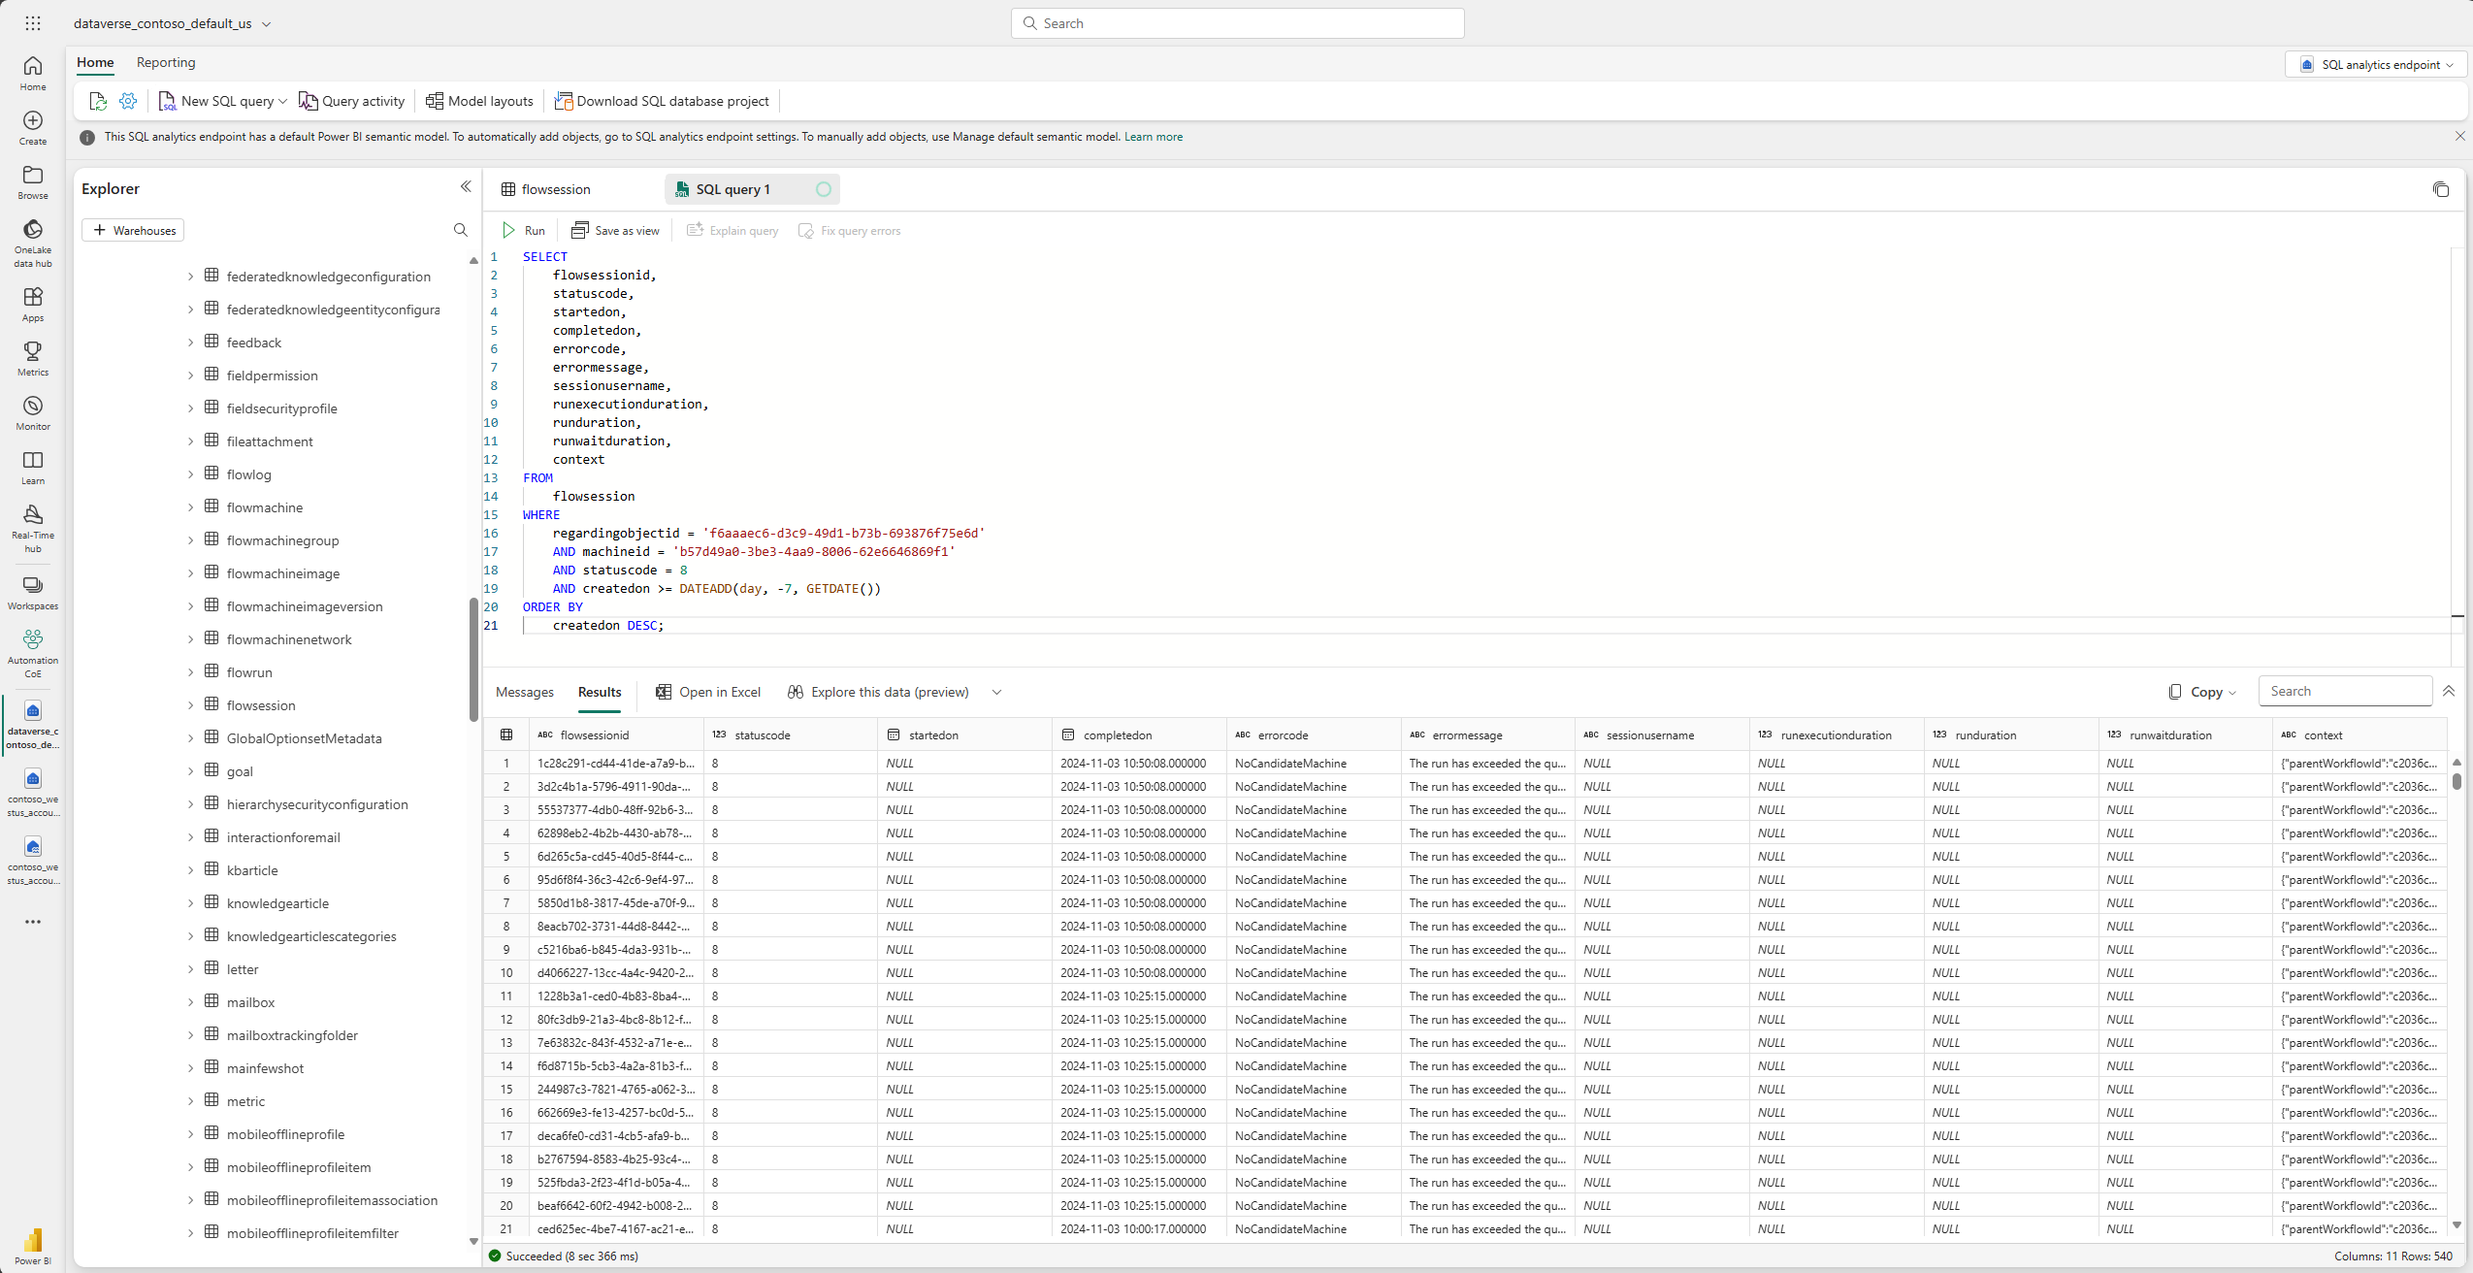
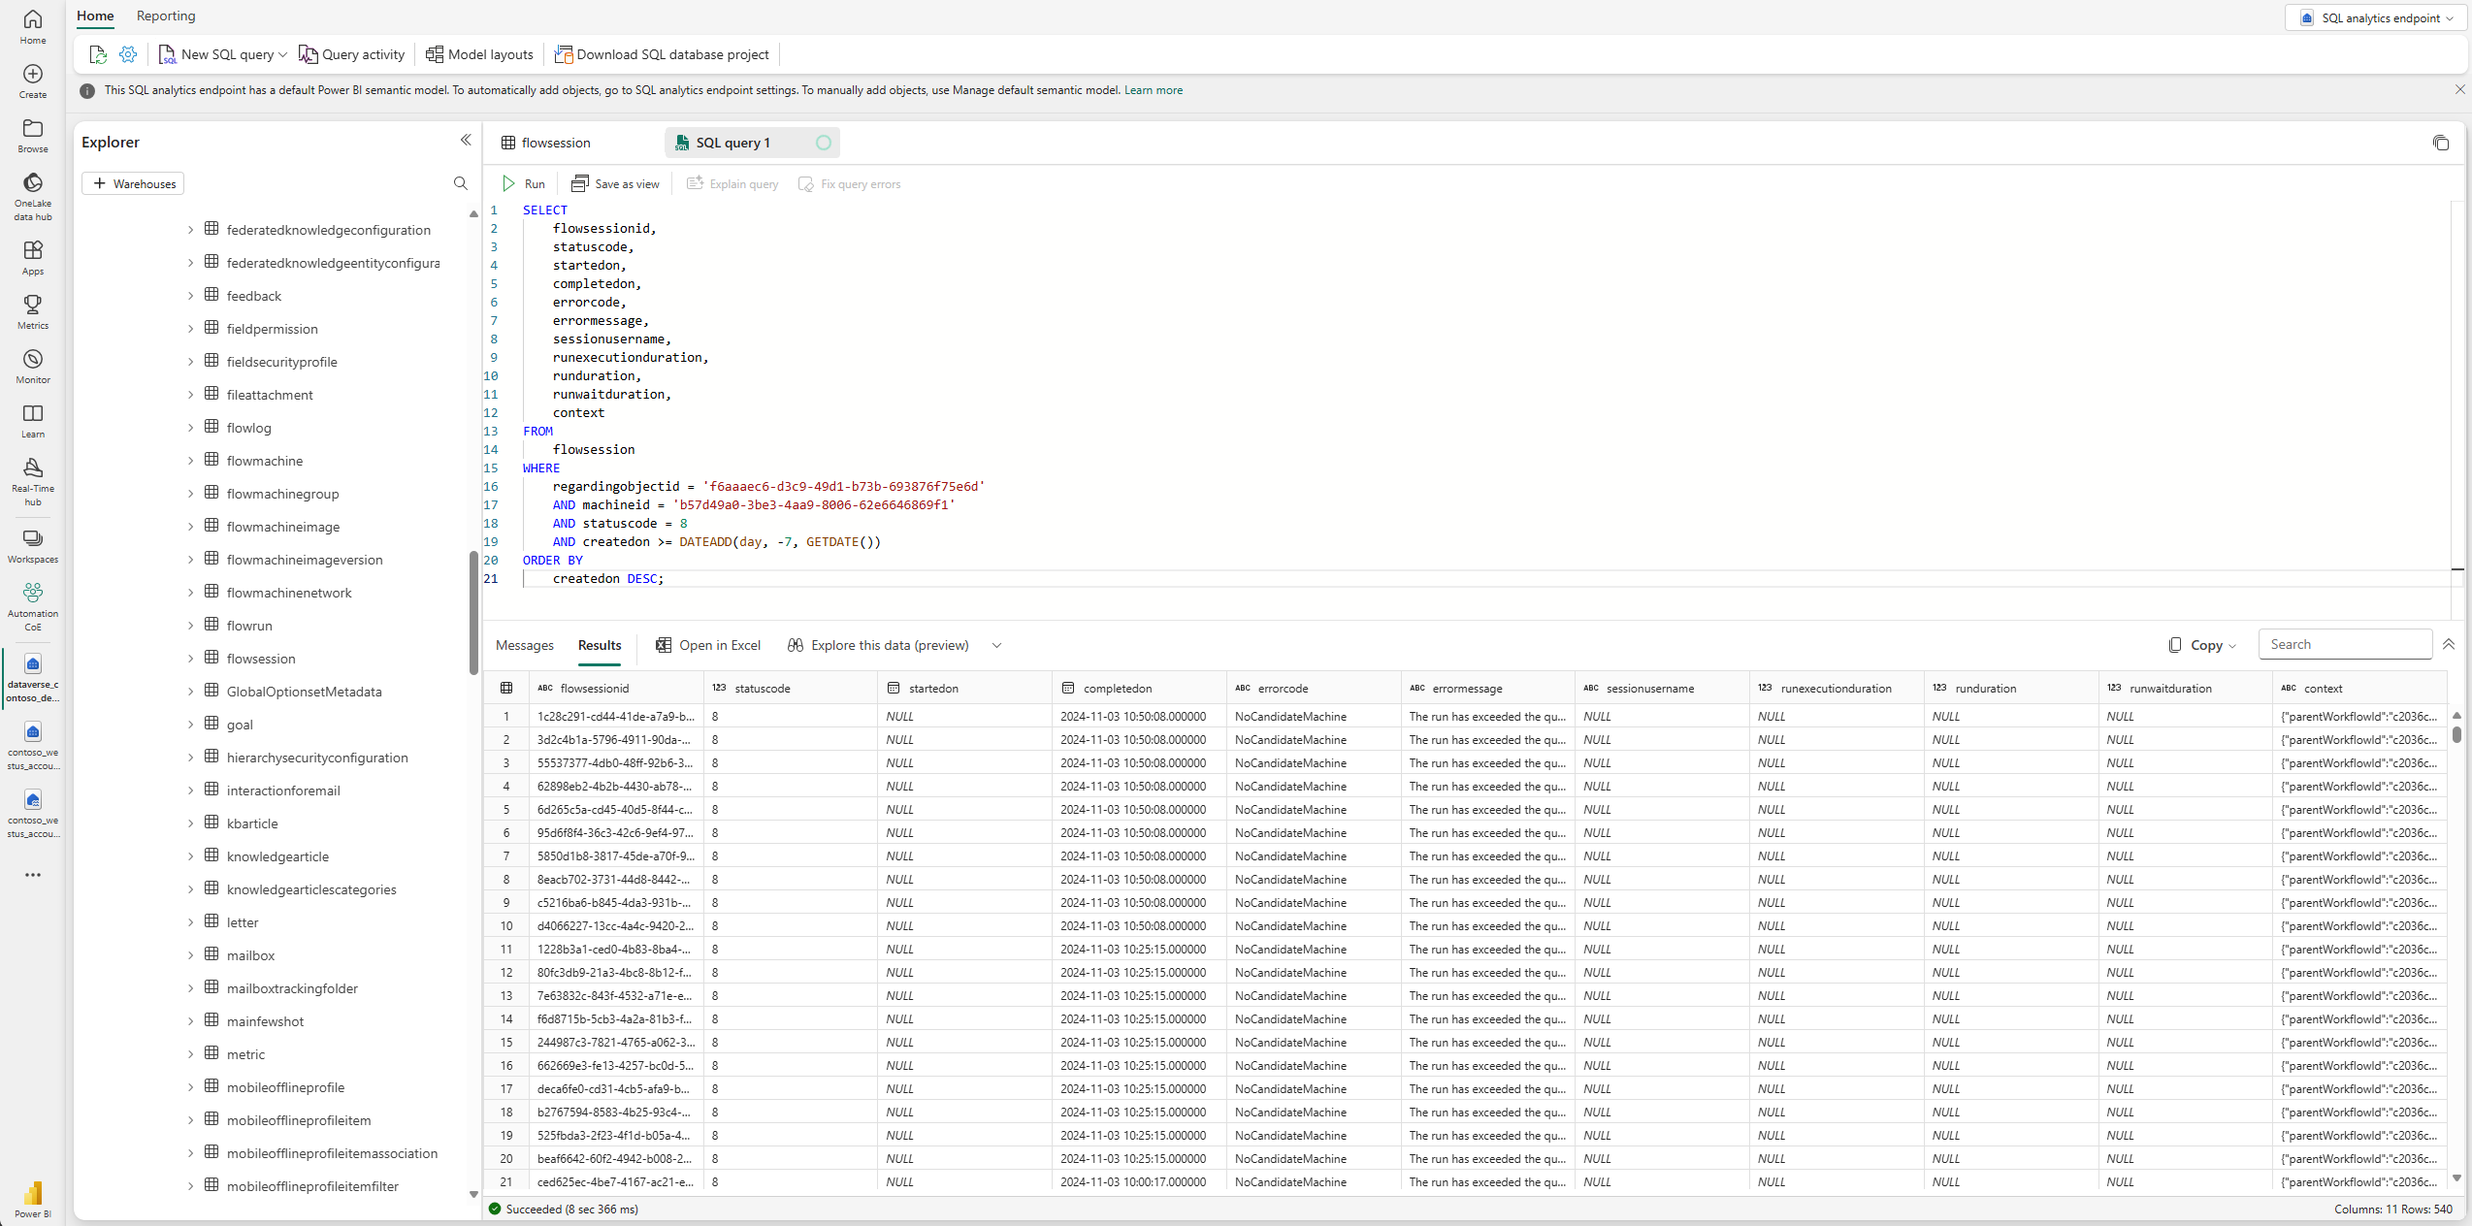
Added query examples

diff --git a/articles/advanced-automation-related-data-analytics-with-fabric.md b/articles/advanced-automation-related-data-analytics-with-fabric.md
@@ -85,15 +85,10 @@ The image includes only relations to tables that are included above and automati
 
 Step-by-step instructions to create a sample SQL Query on the SQL Analytical Endpoint in Fabric for the `contoso_westus_accounts_payable` Lakehouse.
   
-1. **Open Microsoft Fabric:**  
-   - Launch your web browser and navigate to the Microsoft Fabric portal (https://powerbi.com).  
-   - Log in with your credentials.  
-2. **Access the SQL Analytical Endpoint:**  
-   - Choose the workspace where your Lakehouse is located and click on the desired SQL Analytical Endpoint (a sub-node of your Lakehouse).  
-3. **Open the SQL Query Editor:**  
-   - Once in the SQL Analytical Endpoint, locate and click on the "New SQL query" button to open the SQL query editor interface.  
-4. **Write Your SQL Query:**  
-   - In the SQL query editor, enter your SQL query and click **Run**. The following example query retrieves all desktop flow runs (flow sessions) associated with a specific desktop flow and a machine Id that have failed within the last 7 days.
+1. Launch your web browser and navigate to the Microsoft Fabric portal (https://powerbi.com) and log in with your credentials.  
+2. Choose the workspace where your Lakehouse is located and click on the desired SQL Analytical Endpoint (a sub-node of your Lakehouse).  
+3. Once in the SQL Analytical Endpoint, locate and click on the "New SQL query" button to open the SQL query editor interface.  
+4. In the SQL query editor, enter your SQL query and click **Run**. The following example query retrieves all desktop flow runs (flow sessions) associated with a specific desktop flow and a machine Id that have failed within the last 7 days.
 
      ```sql  
         SELECT   
@@ -119,8 +114,7 @@ Step-by-step instructions to create a sample SQL Query on the SQL Analytical End
             createdon DESC;  
      ```  
   
-       :::image type="content" source="media/advanced-automation-related-data-analytics-fabric/basic-sql-flowsession-query.png" alt-text="Screenshot of an entity relationship drawing showing automation-related table relations." lightbox="media/advanced-automation-related-data-analytics-fabric/basic-sql-flowsession-query.png":::
-   - Here's a list of available status reasons (statuscode) for the `Flow Sessions` (desktop flow runs) table.
+5. Here's a list of available status reasons (statuscode) for the `Flow Sessions` (desktop flow runs) table.
 
       | Status reason     | Value |  
       |-----------|-------|  
@@ -137,16 +131,310 @@ Step-by-step instructions to create a sample SQL Query on the SQL Analytical End
       | Aborted   | 11    |  
       | Ignored   | 12    |
 
-5. **Review and Save the Results:**  
-   - Review the query results to ensure they meet your requirements.  
-   - If desired, you can open a Live-query with results in Excel by highlighting the SQL query and selecting "Open in Excel" in the query output section. This will generate and download an Excel file with a Live-query to the SQL Analytics endpoint to further deep-dive on the results.
-       :::image type="content" source="media/advanced-automation-related-data-analytics-fabric/open-query-in-excel.png" alt-text="Screenshot of an entity relationship drawing showing automation-related table relations." lightbox="media/advanced-automation-related-data-analytics-fabric/open-query-in-excel.png":::
-6. **(Optional) Save the Query:**  
-   - If you want to save the SQL query for future use, click on the "Save Query" button.  
+6. Review the query results to ensure they meet your requirements.
+    :::image type="content" source="media/advanced-automation-related-data-analytics-fabric/basic-sql-flowsession-query.png" alt-text="Screenshot of an entity relationship drawing showing automation-related table relations." lightbox="media/advanced-automation-related-data-analytics-fabric/basic-sql-flowsession-query.png":::
+7. (Optional) You can open a Live-query with results in Excel by highlighting the SQL query and selecting "Open in Excel" in the query output section. This will generate and download an Excel file with a Live-query to the SQL Analytics endpoint to further deep-dive on the results.
+    :::image type="content" source="media/advanced-automation-related-data-analytics-fabric/open-query-in-excel.png" alt-text="Screenshot of an entity relationship drawing showing automation-related table relations." lightbox="media/advanced-automation-related-data-analytics-fabric/open-query-in-excel.png":::
+8. (Optional) To store the SQL query for future use, click on the "Save Query" button.  
   
-### Performance-related query examples
+### Performance-related query example
+
+This query retrieves the minimum, mean (average), maximum, and standard deviation of runtimes for desktop flow runs (Flow Sessions) of a specified desktop flow, with the runtimes converted from milliseconds rounded up to the nearest full second. The results are grouped by machine IDs and include additional details such as machine names, management types, maximum hosted machine counts, session capacity and the last heartbeat date etc. from the Machine Group and Machine tables.
+
+```sql
+    SELECT   
+        f.machineid,  
+        fm.name AS machine_name,  
+        CASE   
+            WHEN mg.managementtype = 0 THEN 'Regular Machine (Group)'  
+            ELSE 'Hosted Machine (Group)'  
+        END AS managementtype,  
+        mg.maxmanagedmachinecount AS maxmanagedmachinecount,  
+        fm.lastheartbeatdate AS last_heartbeat_date,  
+        fm.sessioncapacity AS 'Max Parallel Sessions',    
+        CEILING(MIN(f.runduration) / 1000.0) AS min_runtime,  
+        CEILING(AVG(f.runduration) / 1000.0) AS mean_runtime,  
+        CEILING(MAX(f.runduration) / 1000.0) AS max_runtime,  
+        CEILING(STDEV(f.runduration) / 1000.0) AS stdev_runtime
+    FROM   
+        flowsession f  
+    JOIN   
+        flowmachinegroup mg ON f.machinegroupid = mg.flowmachinegroupid  
+    JOIN   
+        flowmachine fm ON f.machinegroupid = fm.flowmachinegroupid  
+    WHERE   
+        f.regardingobjectid = '[specific_flow_id]' -- Replace with the actual flow ID
+    GROUP BY   
+        f.machineid, fm.name, mg.managementtype, mg.maxmanagedmachinecount, fm.lastheartbeatdate, fm.sessioncapacity  
+    ORDER BY   
+        mean_runtime DESC;  
+```
+
+:::image type="content" source="media/advanced-automation-related-data-analytics-fabric/performance-related-query-results.png" alt-text="Screenshot of an entity relationship drawing showing automation-related table relations." lightbox="media/advanced-automation-related-data-analytics-fabric/performance-related-query-results.png":::
+
+### Capacity and bottleneck-related query
+
+
+```sql
+    SELECT   
+        f.machineid,  
+        fm.name AS machine_name,  
+        CASE   
+            WHEN mg.managementtype = 0 THEN 'Regular Machine (Group)'  
+            ELSE 'Hosted Machine (Group)'  
+        END AS managementtype,  
+        mg.maxmanagedmachinecount AS maxmanagedmachinecount,  
+        fm.lastheartbeatdate AS last_heartbeat_date,  
+        fm.sessioncapacity AS 'Max Parallel Sessions',  
+        fm.overcapacitysince,  
+        CASE   
+            WHEN fm.overcapacitysince IS NOT NULL THEN 'Over Capacity'  
+            ELSE 'Within Capacity'  
+        END AS capacity_status  
+    FROM   
+        flowsession f  
+    JOIN   
+        flowmachinegroup mg ON f.machinegroupid = mg.flowmachinegroupid  
+    JOIN   
+        flowmachine fm ON f.machinegroupid = fm.flowmachinegroupid
+    WHERE   
+        f.regardingobjectid = '[specific_flow_id]' -- Replace with the actual flow ID
+    GROUP BY   
+        f.machineid, fm.name, mg.managementtype, mg.maxmanagedmachinecount, fm.lastheartbeatdate, fm.sessioncapacity, fm.overcapacitysince  
+    ORDER BY   
+        capacity_status DESC, fm.lastheartbeatdate DESC;  
+
+```
 
 ### Governance-related query examples
+
+### Base desktop flow query with owner info
+
+This query returns all desktop flows with their owner information.
+
+```sql
+    SELECT   
+        w.name AS 'Desktop flow',  
+        w.workflowid AS 'Desktop flow Id',  
+        w.createdon AS 'Created on',
+        w.modifiedon AS 'Last modified on',
+        w.definition AS 'Script',  
+        w.ownerid AS 'Owner Id',  
+        s.fullname AS 'Owner name',  
+        s.internalemailaddress AS 'Owner email'
+    FROM   
+        workflow w  
+    JOIN   
+        systemuser s ON w.ownerid = s.systemuserid  
+    WHERE   
+        w.category = 6;  -- Only consider desktop flows (category 6)  
+```
+
+### Find scripts that include the term `password` or `pwd`
+
+This query finds all desktop flows that include the terms `password` or `pwd`.
+
+```sql
+    SELECT   
+        w.name AS 'Desktop flow',  
+        w.workflowid AS 'Desktop flow Id',  
+        w.createdon AS 'Created on',  
+        w.modifiedon AS 'Last modified on',  
+        w.definition AS 'Script',  
+        w.ownerid AS 'Owner Id',  
+        s.fullname AS 'Owner name',  
+        s.internalemailaddress AS 'Owner email'  
+    FROM   
+        workflow w  
+    JOIN   
+        systemuser s ON w.ownerid = s.systemuserid  
+    WHERE   
+        w.category = 6  
+        AND w.definition IS NOT NULL  
+        AND (LOWER(w.definition) LIKE '%password%' OR LOWER(w.definition) LIKE '%pwd%');
+```
+
+#### Data exfiltration risk
+
+This query identifies desktop flows that incorporate scripting actions to access SAP's internal GUI scripting engine. This can present potential data loss risks because sensitive data accessed or manipulated by these scripts could be unintentionally or maliciously exposed.
+
+```sql
+    SELECT   
+        workflowid AS 'Desktop flow Id',  
+        name AS 'Desktop flow',  
+        definition  AS 'Script'
+    FROM   
+        workflow  
+    WHERE   
+        (definition LIKE '%System.RunVBScript%'   
+          OR definition LIKE '%System.RunPowershellScript%'   
+          OR definition LIKE '%System.RunJavascript%'   
+          OR definition LIKE '%System.RunDotNetScript%'   
+          OR definition LIKE '%System.RunPythonScript%')  
+        AND definition LIKE '%SapGuiAuto.GetScriptingEngine%'  
+    ORDER BY   
+        workflowid;  
+```
+
+### Potential SQL injection risk
+
+```sql
+    SELECT   
+        w.name AS 'Desktop flow',  
+        w.workflowid AS 'Desktop flow Id',  
+        w.createdon AS 'Created on',  
+        w.modifiedon AS 'Last modified on',  
+        w.definition AS 'Script',  
+        w.ownerid AS 'Owner Id',  
+        s.fullname AS 'Owner name',  
+        s.internalemailaddress AS 'Owner email'  
+    FROM   
+        workflow w  
+    JOIN   
+        systemuser s ON w.ownerid = s.systemuserid  
+    WHERE   
+        w.category = 6  
+        AND w.definition IS NOT NULL  
+        AND LOWER(w.definition) LIKE '%database.executesqlstatement%';
+    
+```
+
+### Advance API request usage
+
+```sql
+    SELECT   
+        w.name AS 'Desktop flow',  
+        w.workflowid AS 'Desktop flow Id',  
+        w.createdon AS 'Created on',  
+        w.modifiedon AS 'Last modified on',  
+        w.definition AS 'Script',  
+        w.ownerid AS 'Owner Id',  
+        s.fullname AS 'Owner name',  
+        s.internalemailaddress AS 'Owner email'  
+    FROM   
+        workflow w  
+    JOIN   
+        systemuser s ON w.ownerid = s.systemuserid  
+    WHERE   
+        w.category = 6  
+        AND w.definition IS NOT NULL  
+        AND (
+            LOWER(w.definition) LIKE '%curl%' OR 
+            LOWER(w.definition) LIKE '%invoke-restmethod%' OR 
+            LOWER(w.definition) LIKE '%invoke-webrequest%' OR 
+            LOWER(w.definition) LIKE '%httpclient%' OR 
+            LOWER(w.definition) LIKE '%requests.get%' OR 
+            LOWER(w.definition) LIKE '%requests.post%' OR 
+            LOWER(w.definition) LIKE '%fetch%' OR 
+            LOWER(w.definition) LIKE '%axios%' OR 
+            LOWER(w.definition) LIKE '%.ajax%'
+        );
+    
+```
+
+### Web endpoints and URL shortcuts usage
+
+```sql
+    SELECT   
+        w.name AS 'Desktop flow',  
+        w.workflowid AS 'Desktop flow Id',  
+        w.createdon AS 'Created on',  
+        w.modifiedon AS 'Last modified on',  
+        w.definition AS 'Script',  
+        w.ownerid AS 'Owner Id',  
+        s.fullname AS 'Owner name',  
+        s.internalemailaddress AS 'Owner email'  
+    FROM   
+        workflow w  
+    JOIN   
+        systemuser s ON w.ownerid = s.systemuserid  
+    WHERE   
+        w.category = 6  
+        AND w.definition IS NOT NULL  
+        AND (
+            LOWER(w.definition) LIKE '%bit.ly%' OR 
+            LOWER(w.definition) LIKE '%linkedin.com%' OR 
+            LOWER(w.definition) LIKE '%aka.ms%' OR 
+            LOWER(w.definition) LIKE '%tinyurl.com%' OR 
+            LOWER(w.definition) LIKE '%goo.gl%' OR 
+            LOWER(w.definition) LIKE '%t.co%' OR 
+            LOWER(w.definition) LIKE '%fb.me%' OR 
+            LOWER(w.definition) LIKE '%is.gd%' OR 
+            LOWER(w.definition) LIKE '%buff.ly%'
+        );
+    
+```
+
+### Hardcode file path usage
+
+```sql
+    SELECT   
+        w.name AS 'Desktop flow',  
+        w.workflowid AS 'Desktop flow Id',  
+        w.createdon AS 'Created on',  
+        w.modifiedon AS 'Last modified on',  
+        w.definition AS 'Script',  
+        w.ownerid AS 'Owner Id',  
+        s.fullname AS 'Owner name',  
+        s.internalemailaddress AS 'Owner email'  
+    FROM   
+        workflow w  
+    JOIN   
+        systemuser s ON w.ownerid = s.systemuserid  
+    WHERE   
+        w.category = 6  
+        AND w.definition IS NOT NULL  
+        AND (
+            LOWER(w.definition) LIKE '%c:\\%' OR 
+            LOWER(w.definition) LIKE '%d:\\%' OR 
+            LOWER(w.definition) LIKE '%e:\\%' OR 
+            LOWER(w.definition) LIKE '%f:\\%' OR 
+            LOWER(w.definition) LIKE '%g:\\%' OR 
+            LOWER(w.definition) LIKE '%h:\\%' OR 
+            LOWER(w.definition) LIKE '%i:\\%' OR 
+            LOWER(w.definition) LIKE '%j:\\%' OR 
+            LOWER(w.definition) LIKE '%k:\\%' OR 
+            LOWER(w.definition) LIKE '%l:\\%' OR 
+            LOWER(w.definition) LIKE '%m:\\%' OR 
+            LOWER(w.definition) LIKE '%n:\\%' OR 
+            LOWER(w.definition) LIKE '%o:\\%' OR 
+            LOWER(w.definition) LIKE '%p:\\%' OR 
+            LOWER(w.definition) LIKE '%q:\\%' OR 
+            LOWER(w.definition) LIKE '%r:\\%' OR 
+            LOWER(w.definition) LIKE '%s:\\%' OR 
+            LOWER(w.definition) LIKE '%t:\\%' OR 
+            LOWER(w.definition) LIKE '%u:\\%' OR 
+            LOWER(w.definition) LIKE '%v:\\%' OR 
+            LOWER(w.definition) LIKE '%w:\\%' OR 
+            LOWER(w.definition) LIKE '%x:\\%' OR 
+            LOWER(w.definition) LIKE '%y:\\%' OR 
+            LOWER(w.definition) LIKE '%z:\\%' 
+        );
+
+```
+
+### Missing error handling
+
+```sql
+    SELECT   
+        w.name AS 'Desktop flow',  
+        w.workflowid AS 'Desktop flow Id',  
+        w.createdon AS 'Created on',  
+        w.modifiedon AS 'Last modified on',  
+        w.definition AS 'Script',  
+        w.ownerid AS 'Owner Id',  
+        s.fullname AS 'Owner name',  
+        s.internalemailaddress AS 'Owner email'  
+    FROM   
+        workflow w  
+    JOIN   
+        systemuser s ON w.ownerid = s.systemuserid  
+    WHERE   
+        w.category = 6  
+        AND w.definition IS NOT NULL  
+        AND NOT (LOWER(w.definition) LIKE '%on block error%' OR LOWER(w.definition) LIKE '%on error%');
+    
+```
 
 ## Creating reports in Fabric
 
